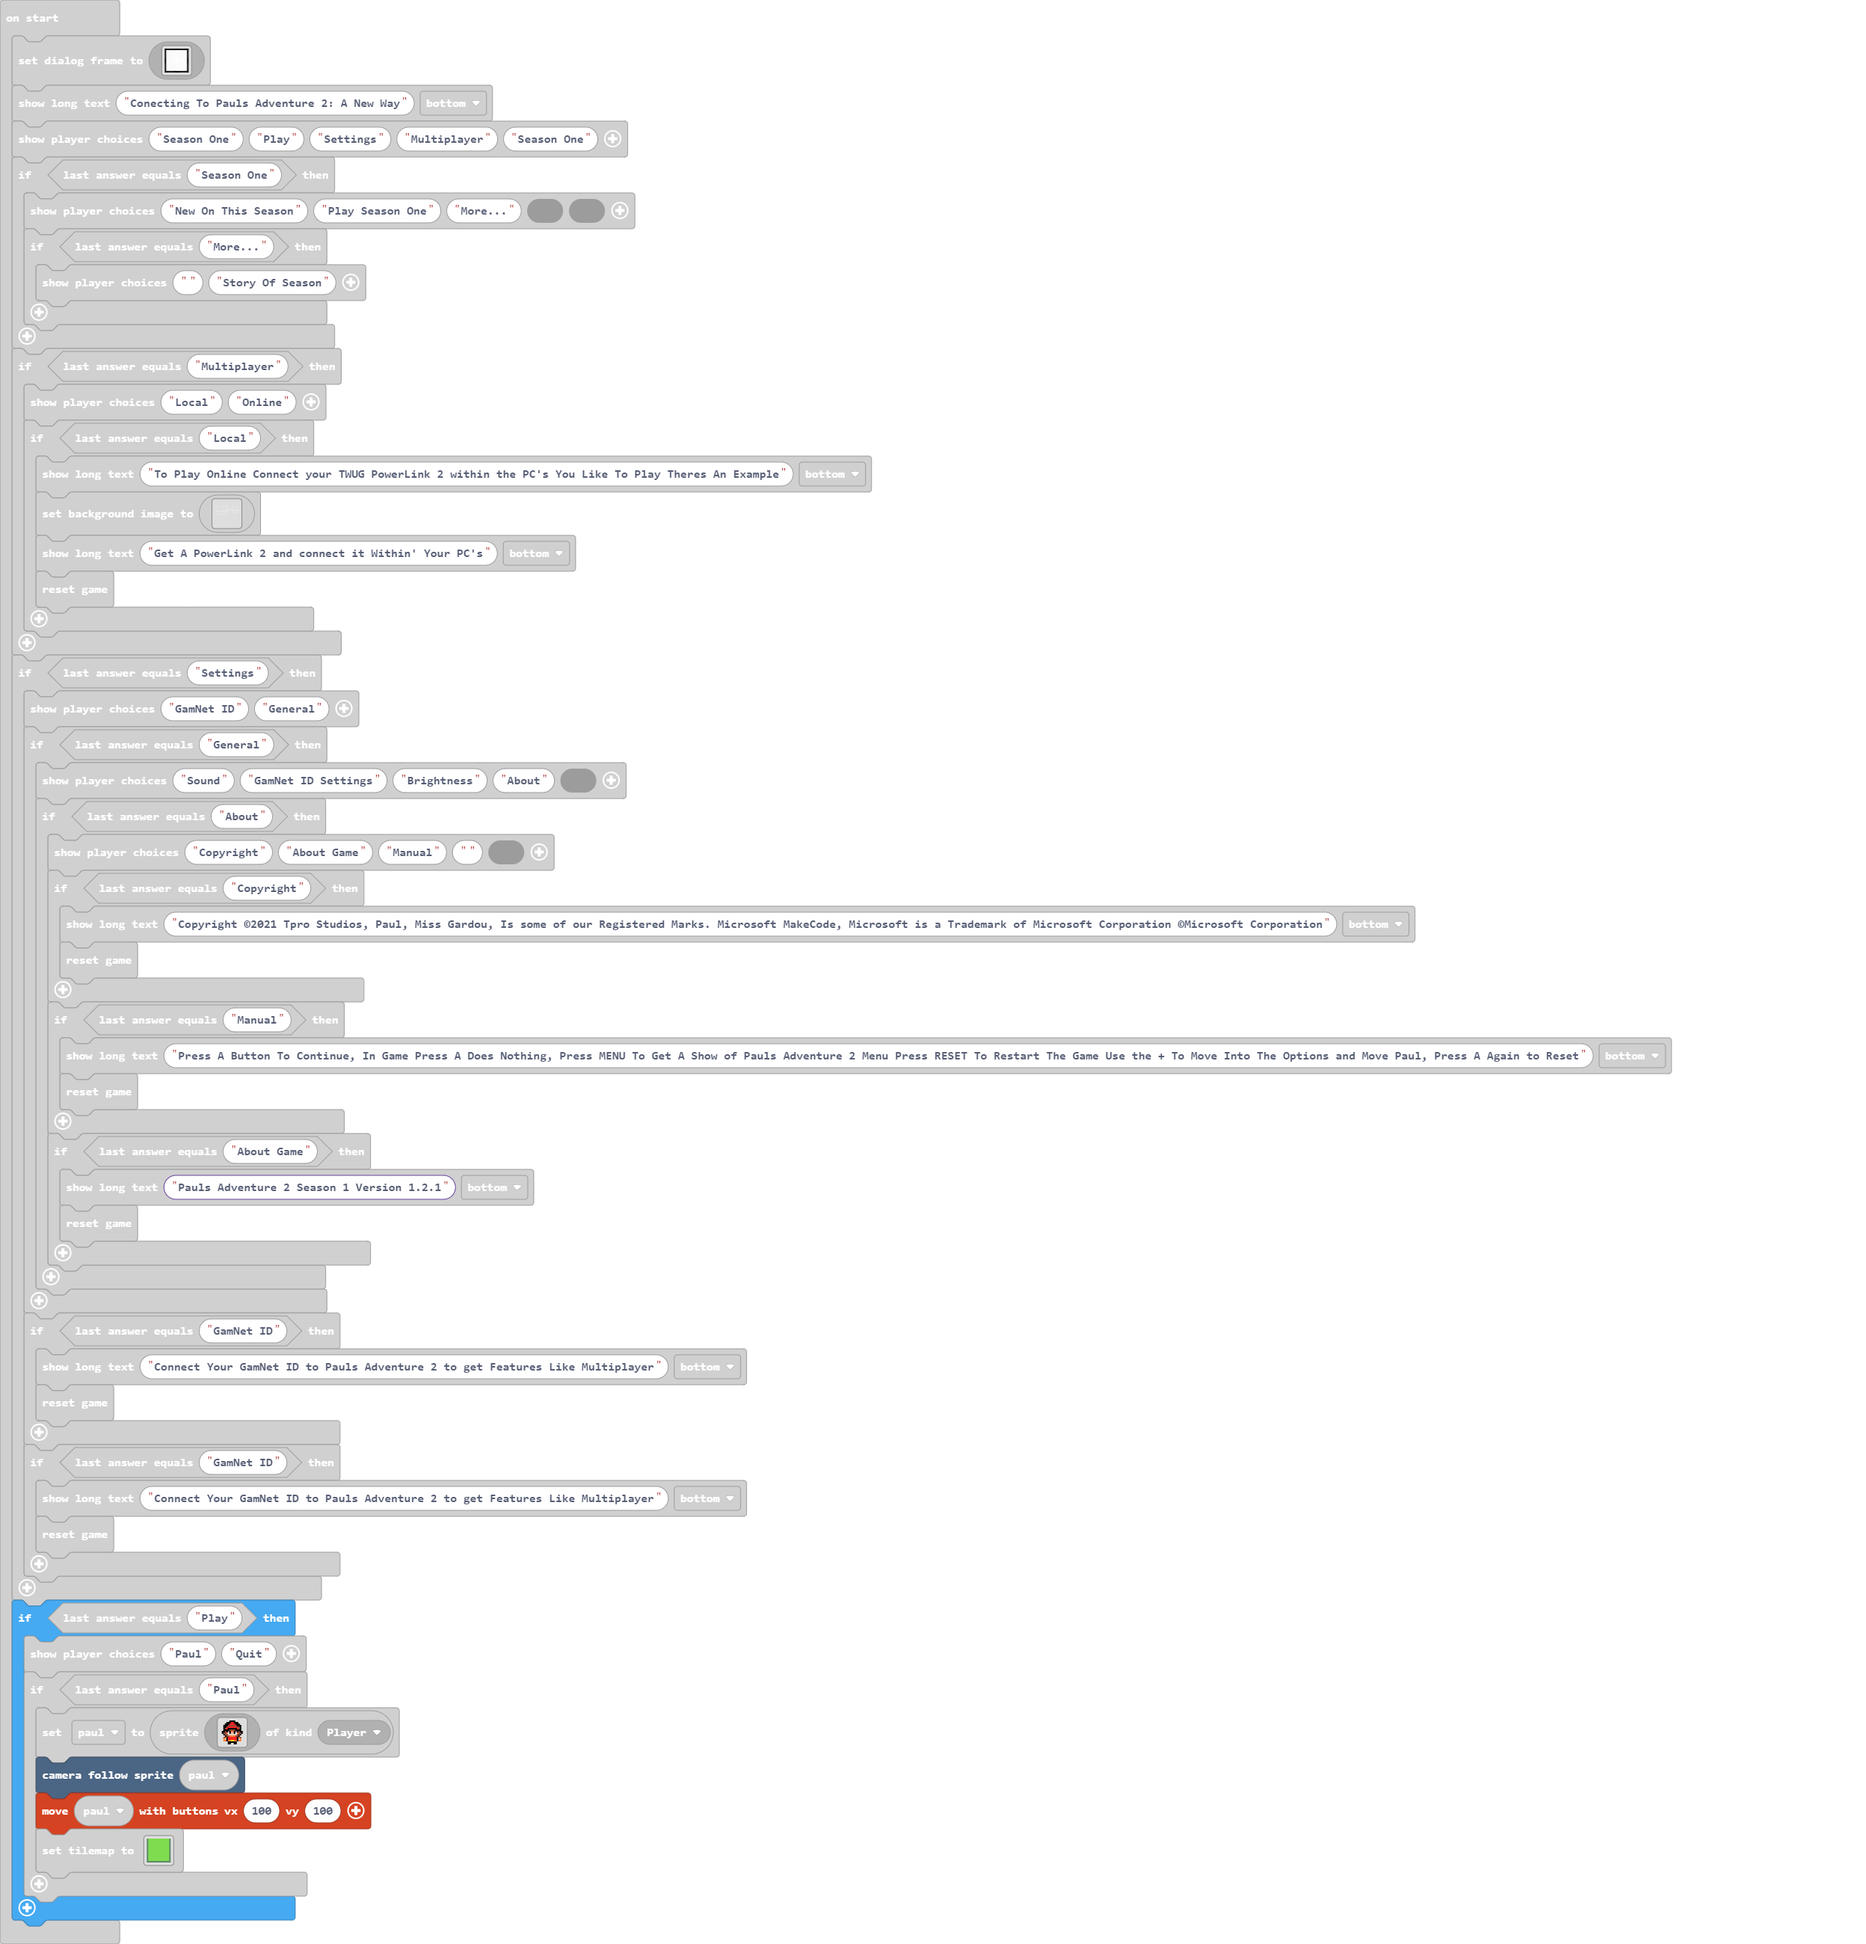
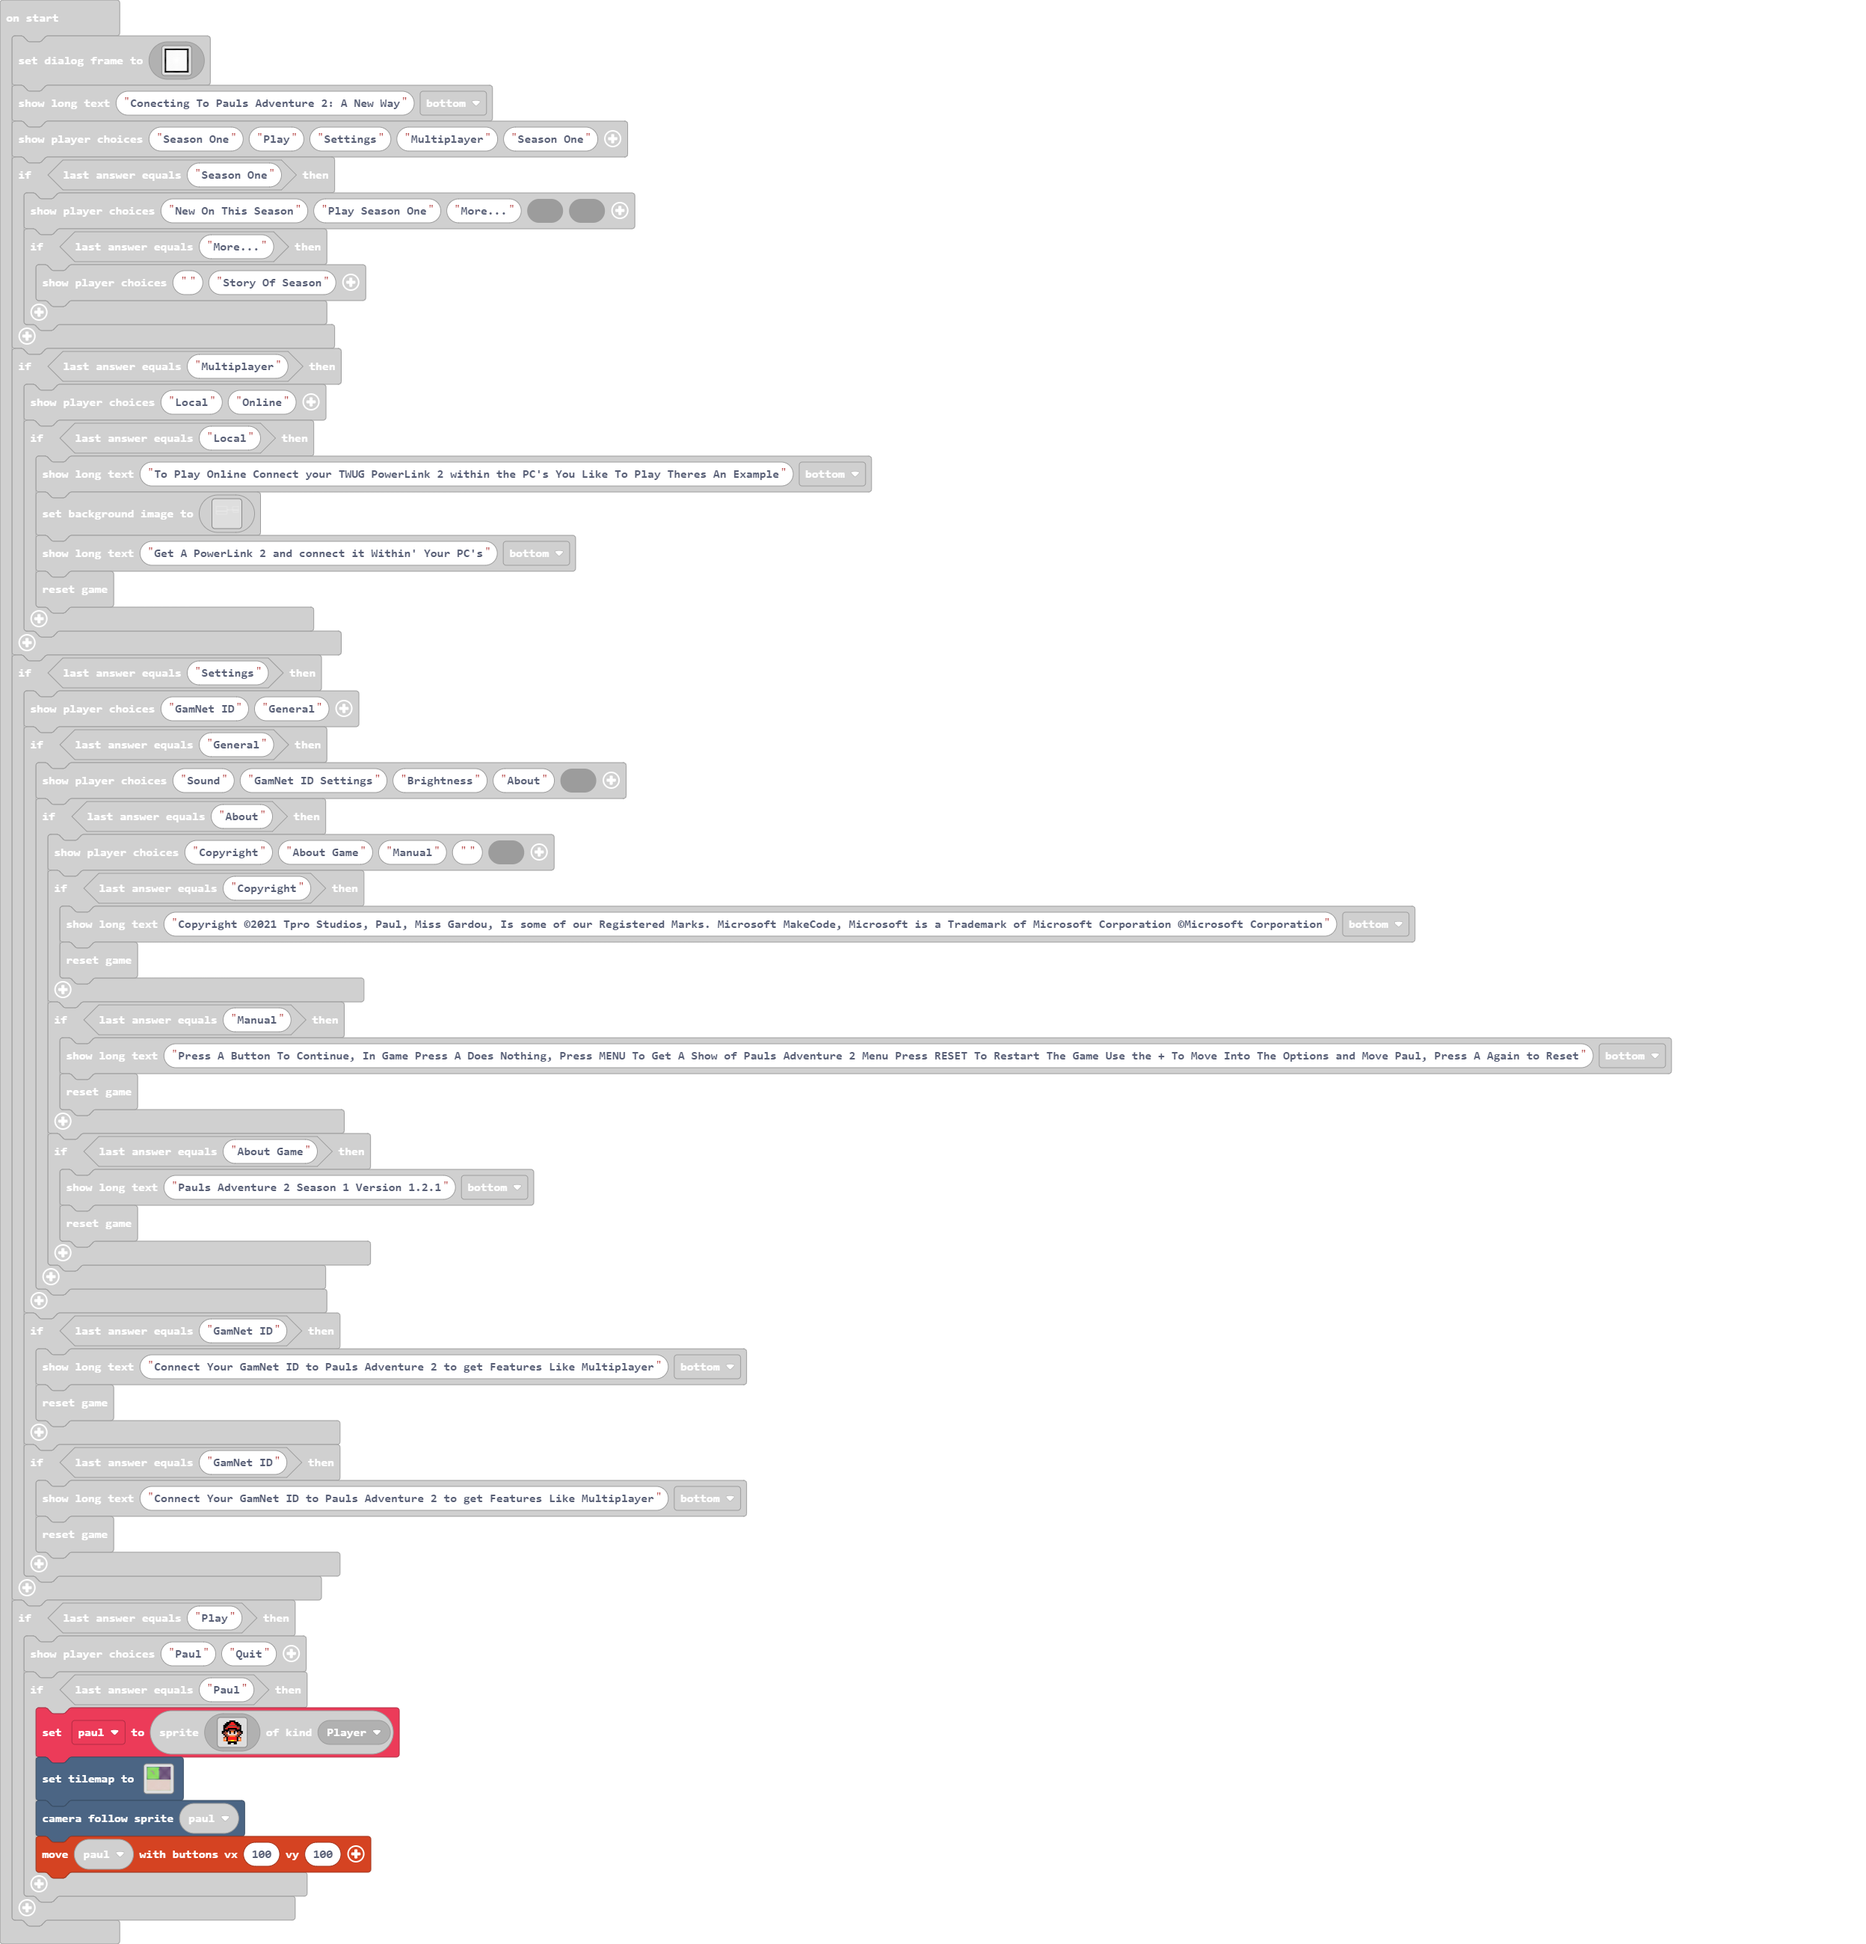
Extended The Map

Changed region(s): [[0.0, 0.81, 0.2188, 0.9969], [0.125, 0.81, 0.1562, 0.8412]]

diff --git a/tilemap.g.ts b/tilemap.g.ts
@@ -6,28 +6,11 @@ namespace myTiles {
     export const tile1 = image.ofBuffer(hex``);
     //% fixedInstance jres blockIdentity=images._tile
     export const tile2 = image.ofBuffer(hex``);
+    //% fixedInstance jres blockIdentity=images._tile
+    export const tile3 = image.ofBuffer(hex``);
 
     helpers._registerFactory("tilemap", function(name: string) {
         switch(helpers.stringTrim(name)) {
-            case "level1":
-            case "level1":return tiles.createTilemap(hex`1000100001020202020202020202020202020201010202020202020202020202020202010102020202020202020202020202020101020202020202020202020202020201010202020202020202020202020202010102020202020202020202020202020101020202020202020202020202020201010202020202020202020202020202010102020202020202020202020202020101020202020202020202020202020201010202020202020202020202020202010102020202020202020202020202020101020202020202020202020202020201010202020202020202020202020202010102020202020202020202020202020101010101010101010101010101010101`, img`
-. . . . . . . . . . . . . . . . 
-. . . . . . . . . . . . . . . . 
-. . . . . . . . . . . . . . . . 
-. . . . . . . . . . . . . . . . 
-. . . . . . . . . . . . . . . . 
-. . . . . . . . . . . . . . . . 
-. . . . . . . . . . . . . . . . 
-. . . . . . . . . . . . . . . . 
-. . . . . . . . . . . . . . . . 
-. . . . . . . . . . . . . . . . 
-. . . . . . . . . . . . . . . . 
-. . . . . . . . . . . . . . . . 
-. . . . . . . . . . . . . . . . 
-. . . . . . . . . . . . . . . . 
-. . . . . . . . . . . . . . . . 
-. . . . . . . . . . . . . . . . 
-`, [myTiles.transparency16,sprites.castle.saplingPine,sprites.castle.tileGrass1], TileScale.Sixteen);
             case "level2":
             case "level2":return tiles.createTilemap(hex`1000100000000000000000000000000000000000000000000000000000000000000000000000000000000000000000000000000000000000000000000000000000000000000000000000000000000000000000000000000000000000000000000000000000000000000000000000000000000000000000000000000000000000000000000000000000000000000000000000000000000000000000000000000000000000000000000000000000000000000000000000000000000000000000000000000000000000000000000000000000000000000000000000000000000000000000000000000000000000000000000000000000000000000000000000000000000000`, img`
 . . . . . . . . . . . . . . . . 
@@ -161,6 +144,39 @@ namespace myTiles {
 . . . . . . . . . . . . . . . . 
 . . . . . . . . . . . . . . . . 
 `, [myTiles.transparency16], TileScale.Sixteen);
+            case "level1":
[1 lines of base64/hex data omitted]
+..............................
+..............................
+..............................
+..............................
+..............................
+..............................
+..............................
+..............................
+..............................
+..............................
+..............................
+..............................
+..............................
+..............................
+..............................
+..............................
+..............................
+..............................
+..............................
+..............................
+..............................
+..............................
+..............................
+..............................
+..............................
+..............................
+..............................
+..............................
+..............................
+..............................
+`, [myTiles.transparency16,sprites.castle.saplingPine,sprites.castle.tileGrass1,myTiles.tile3,sprites.castle.rock0,sprites.dungeon.darkGroundNorthWest0,sprites.dungeon.darkGroundNorth,sprites.dungeon.darkGroundNorthEast0,sprites.dungeon.darkGroundEast,sprites.dungeon.darkGroundSouth,sprites.dungeon.darkGroundSouthWest0,sprites.dungeon.darkGroundWest,sprites.builtin.forestTiles1,sprites.dungeon.darkGroundCenter,sprites.dungeon.darkGroundSouthEast0,sprites.castle.tilePath1,sprites.castle.tilePath2,sprites.castle.tilePath4,sprites.castle.tilePath7,sprites.castle.tilePath8,sprites.castle.tilePath5,sprites.castle.tilePath9,sprites.castle.tilePath6,sprites.castle.tilePath3], TileScale.Sixteen);
         }
         return null;
     })
@@ -172,6 +188,8 @@ namespace myTiles {
             case "tile1":return tile1;
             case "myTile0":
             case "tile2":return tile2;
+            case "myTile1":
+            case "tile3":return tile3;
         }
         return null;
     })

diff --git a/main.ts b/main.ts
@@ -242,8 +242,8 @@ if (story.checkLastAnswer("Play")) {
             . . . . . f f f f f f . . . . . 
             . . . . . f f . . f f . . . . . 
             `, SpriteKind.Player)
+        tiles.setTilemap(tilemap`level1`)
         scene.cameraFollowSprite(paul)
         controller.moveSprite(paul)
-        tiles.setTilemap(tilemap`level1`)
     }
 }
